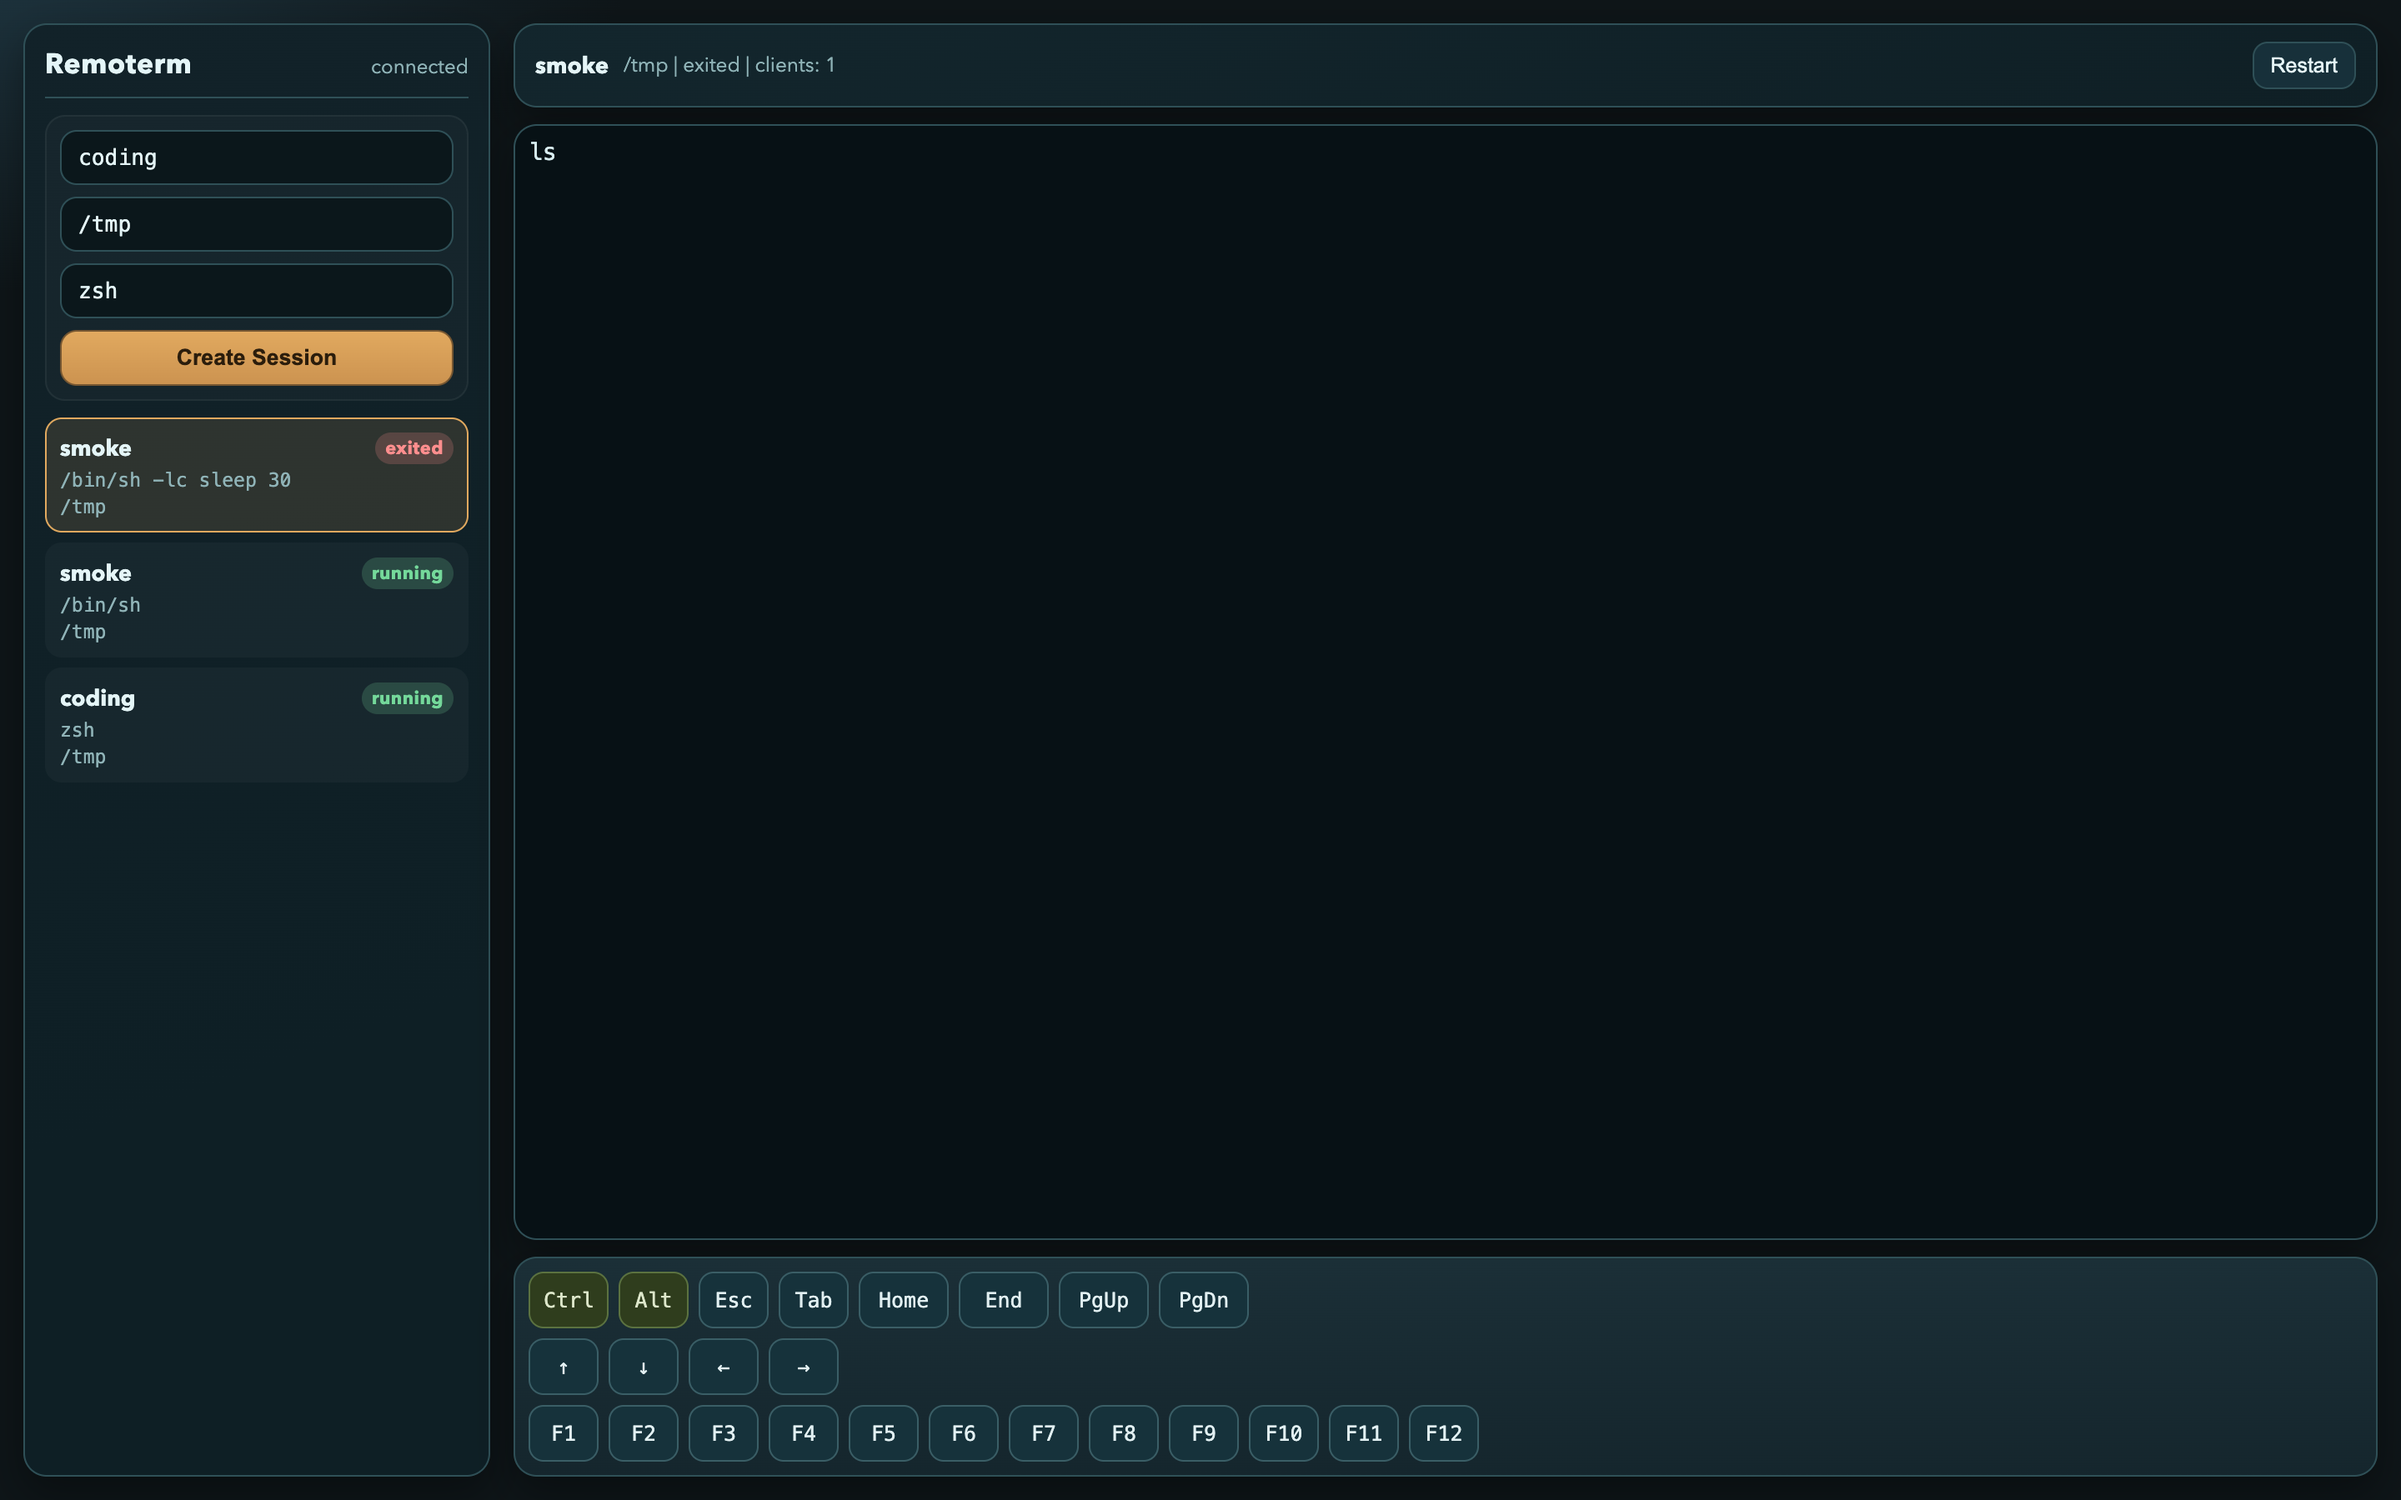
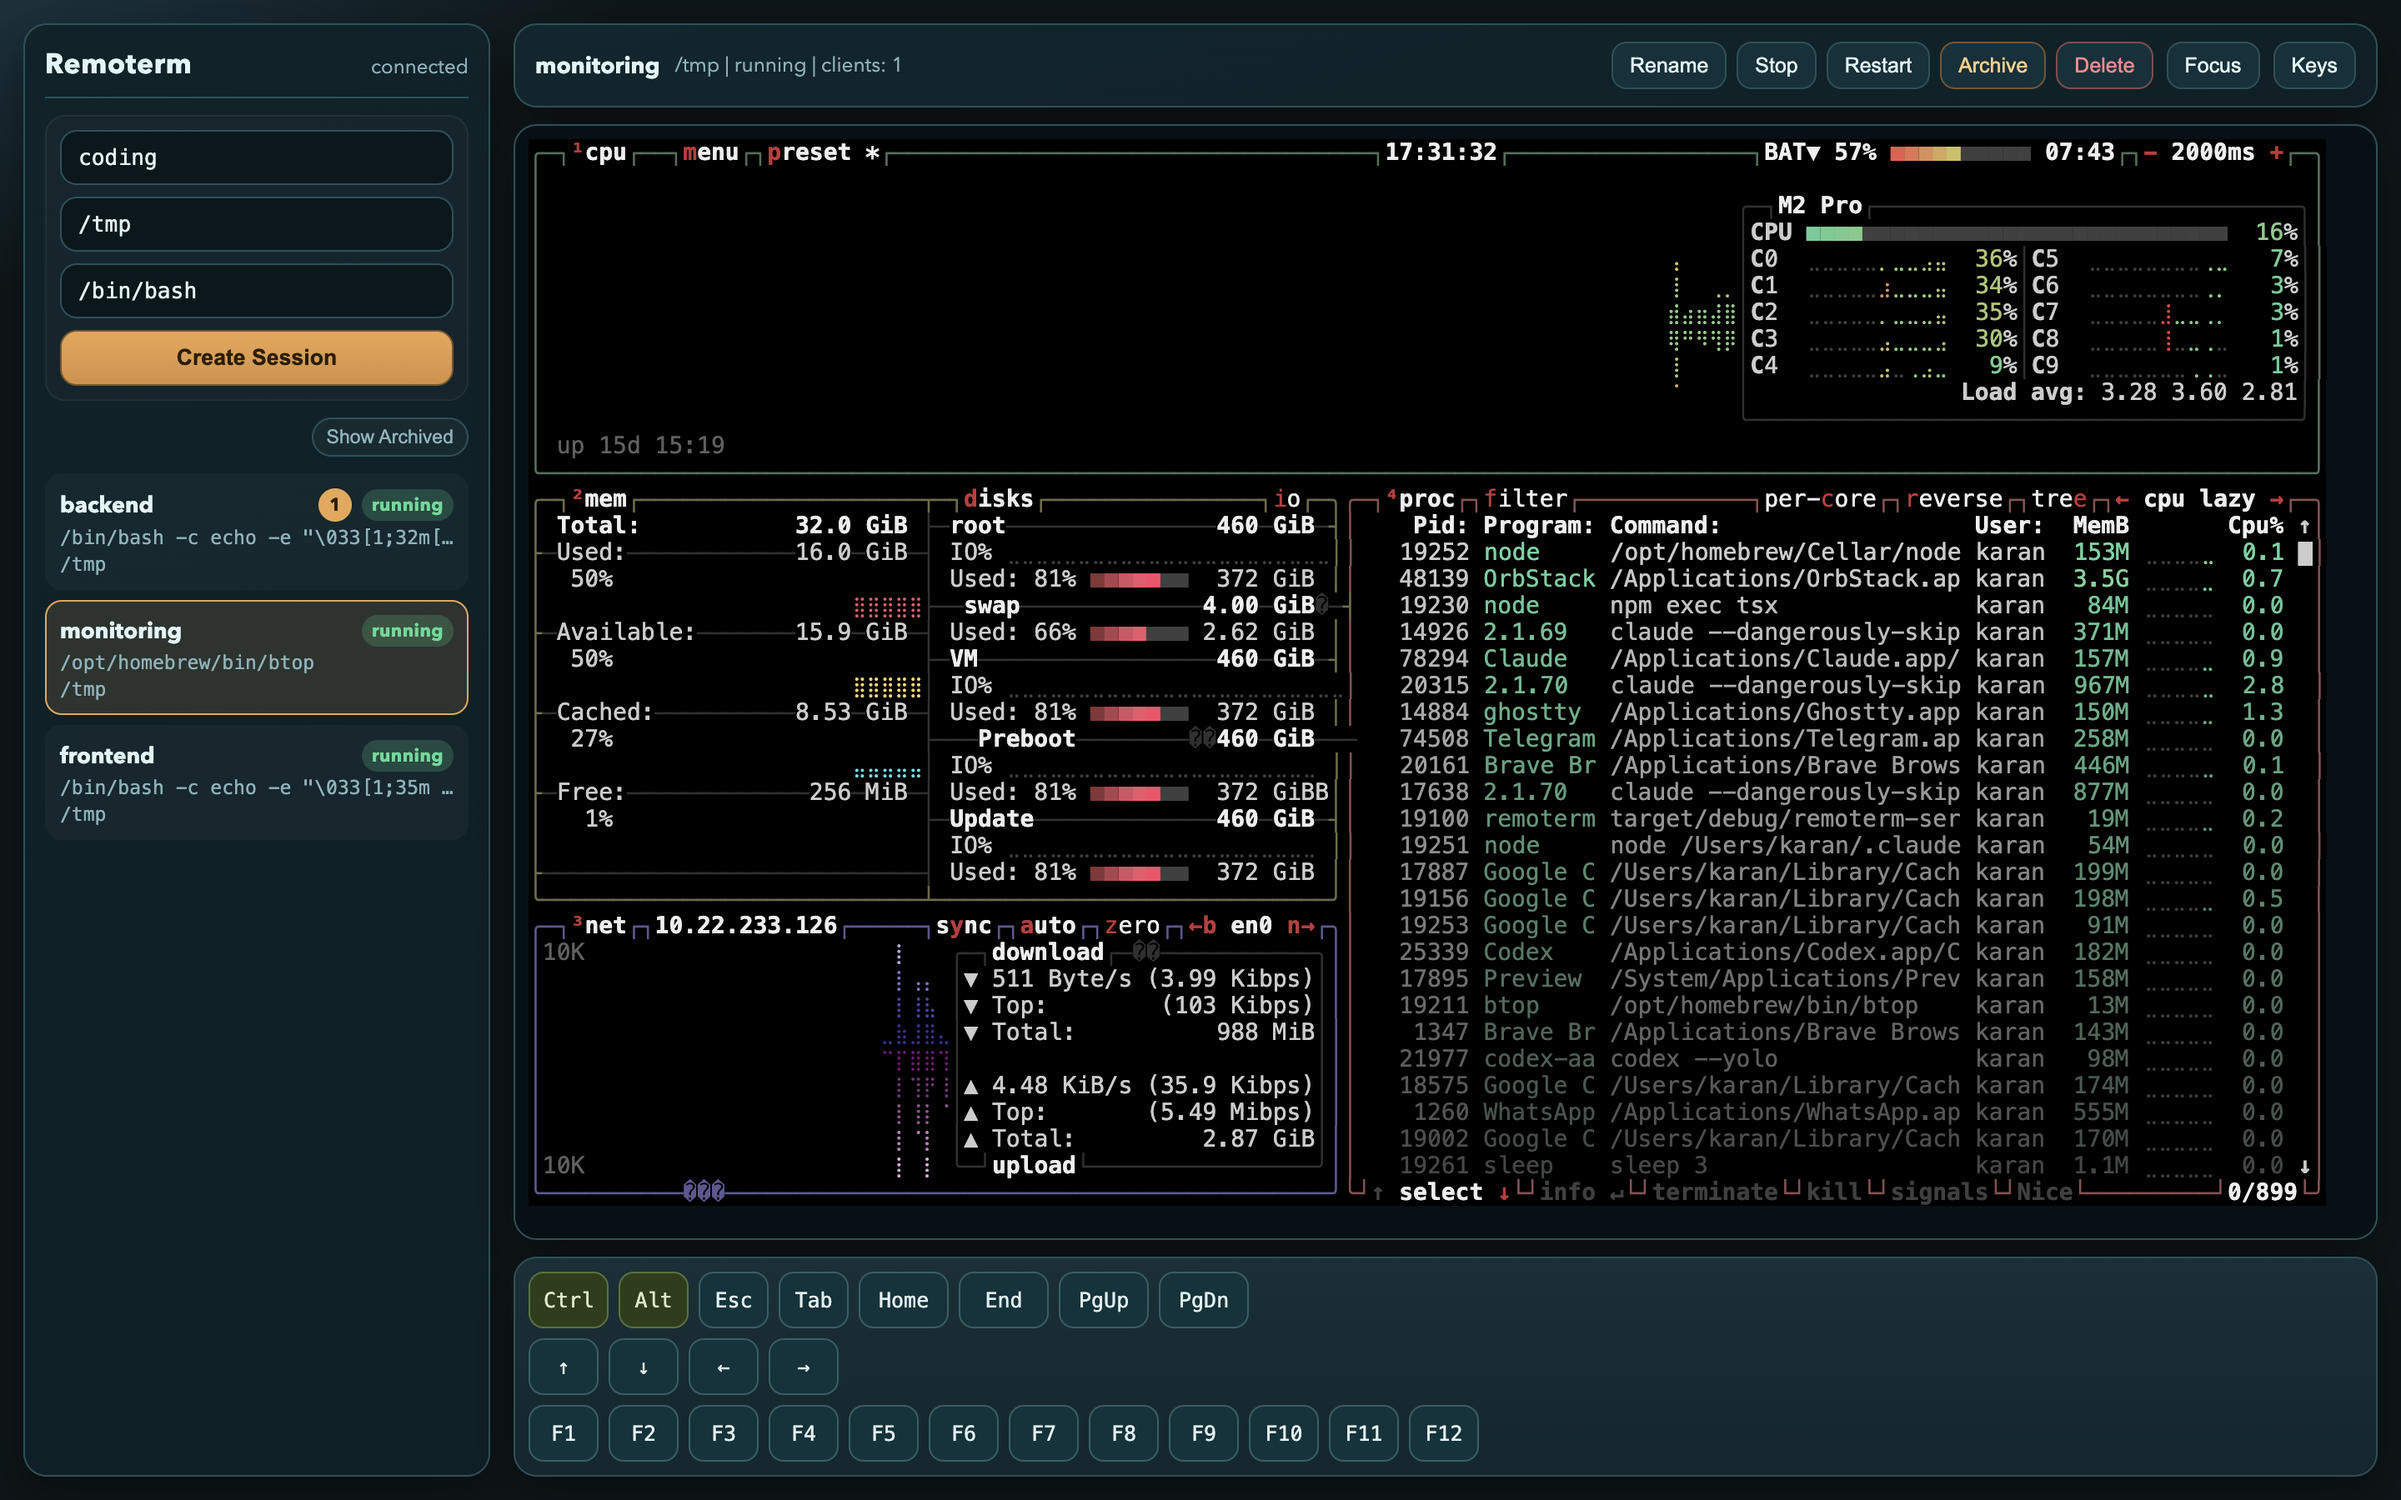
v0.1.0: focus mode, UI overhaul, fresh screenshots
- Focus mode: collapse sidebar + chrome for distraction-free terminal
- Soft keyboard hidden by default on desktop, togglable via Keys button
- rustfmt applied to new code
- Updated README with desktop (btop) and mobile screenshots
- Updated Dockerfile with htop/btop in runtime image
- Updated deployment docs for container TUI support

diff --git a/static/index.html b/static/index.html
@@ -46,6 +46,16 @@
       padding: 14px;
     }
 
+    .app.focus-mode {
+      grid-template-columns: 1fr;
+      gap: 8px;
+      padding: 8px;
+    }
+
+    .app.focus-mode .sidebar {
+      display: none;
+    }
+
     .sidebar {
       border: 1px solid var(--border);
       border-radius: var(--radius);
@@ -250,6 +260,13 @@
       gap: 8px;
     }
 
+    .toolbar button.active {
+      border-color: #755631;
+      background: linear-gradient(180deg, var(--accent), #cc9350);
+      color: #2b1d0c;
+      font-weight: 700;
+    }
+
     .session-actions {
       display: flex;
       gap: 6px;
@@ -317,6 +334,25 @@
       width: 100%;
       height: 100%;
       min-height: 420px;
+    }
+
+    .app.focus-mode .main {
+      gap: 8px;
+    }
+
+    .app.focus-mode .toolbar {
+      padding: 6px 8px;
+      justify-content: flex-end;
+      border-radius: 12px;
+    }
+
+    .app.focus-mode .toolbar .left,
+    .app.focus-mode .session-actions {
+      display: none;
+    }
+
+    .app.focus-mode #terminal-wrap {
+      padding: 3px;
     }
 
     .kbd {
@@ -614,8 +650,9 @@
             <button class="warn" id="archive-btn" type="button">Archive</button>
             <button class="danger" id="delete-btn" type="button">Delete</button>
           </div>
+          <button id="focus-btn" type="button">Focus</button>
           <button class="mobile-only" id="sessions-btn" type="button">Sessions</button>
-          <button class="mobile-only" id="keys-btn" type="button">Keys</button>
+          <button id="keys-btn" type="button">Keys</button>
         </div>
       </div>
 
@@ -665,10 +702,11 @@
       seqBySession: {},
       unreadBySession: {},
       isMobile: window.matchMedia('(max-width: 900px)').matches,
-      keyboardVisible: true,
+      keyboardVisible: false,
       keyboardFns: false,
       sidebarOpen: false,
       showArchived: false,
+      focusMode: false,
       modifiers: {
         ctrl: { mode: 'off', lastTapAt: 0 },
         alt: { mode: 'off', lastTapAt: 0 },
@@ -686,6 +724,7 @@
       title: document.getElementById('session-title'),
       meta: document.getElementById('session-meta'),
       status: document.getElementById('global-status'),
+      focusBtn: document.getElementById('focus-btn'),
       sessionsBtn: document.getElementById('sessions-btn'),
       keysBtn: document.getElementById('keys-btn'),
       sessionActions: document.getElementById('session-actions'),
@@ -777,8 +816,15 @@
       document.body.classList.toggle('sidebar-open', state.isMobile && state.sidebarOpen);
     }
 
+    function syncFocusMode() {
+      document.querySelector('.app').classList.toggle('focus-mode', state.focusMode);
+      el.focusBtn.textContent = state.focusMode ? 'Exit Focus' : 'Focus';
+      el.focusBtn.classList.toggle('active', state.focusMode);
+      el.sessionsBtn.hidden = !state.isMobile;
+    }
+
     function syncKeyboard() {
-      const showKeyboard = !state.isMobile || state.keyboardVisible;
+      const showKeyboard = state.keyboardVisible;
       el.kbd.hidden = !showKeyboard;
       el.row2.hidden = state.isMobile ? state.keyboardFns : false;
       el.row3.hidden = state.isMobile ? !state.keyboardFns : false;
@@ -793,11 +839,12 @@
       if (state.isMobile) {
         state.keyboardVisible = false;
       } else {
-        state.keyboardVisible = true;
+        state.keyboardVisible = false;
         state.sidebarOpen = false;
         state.keyboardFns = false;
       }
       syncSidebar();
+      syncFocusMode();
       syncKeyboard();
       term.options.fontSize = state.isMobile ? 13 : 14;
       requestAnimationFrame(() => {
@@ -1252,6 +1299,22 @@
       });
     });
 
+    el.focusBtn.addEventListener('click', () => {
+      state.focusMode = !state.focusMode;
+      state.sidebarOpen = false;
+      if (state.focusMode) {
+        state.keyboardVisible = false;
+        state.keyboardFns = false;
+      }
+      syncSidebar();
+      syncFocusMode();
+      syncKeyboard();
+      requestAnimationFrame(() => {
+        fitAddon.fit();
+        sendFrame({ type: 'resize', cols: term.cols, rows: term.rows });
+      });
+    });
+
     el.kbdFnToggle.addEventListener('click', () => {
       state.keyboardFns = !state.keyboardFns;
       syncKeyboard();
@@ -1281,6 +1344,13 @@
       if (event.key === 'Escape' && state.sidebarOpen) {
         state.sidebarOpen = false;
         syncSidebar();
+      } else if (event.key === 'Escape' && state.focusMode) {
+        state.focusMode = false;
+        syncFocusMode();
+        requestAnimationFrame(() => {
+          fitAddon.fit();
+          sendFrame({ type: 'resize', cols: term.cols, rows: term.rows });
+        });
       }
     });
 

diff --git a/crates/remoterm-server/src/main.rs b/crates/remoterm-server/src/main.rs
@@ -222,7 +222,10 @@ impl Session {
         let persisted_history = storage.load_output_history(summary.id)?;
         let next_seq = persisted_history.last().map(|event| event.seq).unwrap_or(0);
         summary.attached_clients = 0;
-        if matches!(summary.status, SessionStatus::Running | SessionStatus::Starting) {
+        if matches!(
+            summary.status,
+            SessionStatus::Running | SessionStatus::Starting
+        ) {
             summary.pid = None;
         }
         Ok(Arc::new(Self {
@@ -452,7 +455,10 @@ impl Session {
                 seq: event.seq,
                 data: event.data.clone(),
             },
-            self.history.lock().expect("history lock poisoned").max_bytes,
+            self.history
+                .lock()
+                .expect("history lock poisoned")
+                .max_bytes,
             now,
         ) {
             warn!(
@@ -679,7 +685,10 @@ async fn restart_session(
     };
 
     if session.summary().archived {
-        return Err((StatusCode::BAD_REQUEST, "cannot restart an archived session".into()));
+        return Err((
+            StatusCode::BAD_REQUEST,
+            "cannot restart an archived session".into(),
+        ));
     }
 
     if let Err(err) = kill_session(session.clone()).await {
@@ -728,7 +737,10 @@ async fn archive_session(
             .ok_or((StatusCode::NOT_FOUND, "session not found".into()))?
     };
 
-    if matches!(session.summary().status, SessionStatus::Running | SessionStatus::Starting) {
+    if matches!(
+        session.summary().status,
+        SessionStatus::Running | SessionStatus::Starting
+    ) {
         if let Err(err) = kill_session(session.clone()).await {
             warn!("failed to stop session {} before archive: {}", id, err);
         }

diff --git a/crates/remoterm-server/src/storage.rs b/crates/remoterm-server/src/storage.rs
@@ -157,12 +157,18 @@ impl Storage {
             "DELETE FROM session_events WHERE session_id = ?1",
             params![id.to_string()],
         )?;
-        tx.execute("DELETE FROM sessions WHERE id = ?1", params![id.to_string()])?;
+        tx.execute(
+            "DELETE FROM sessions WHERE id = ?1",
+            params![id.to_string()],
+        )?;
         tx.commit()?;
         Ok(())
     }
 
-    pub fn load_output_history(&self, session_id: Uuid) -> anyhow::Result<Vec<PersistedOutputEvent>> {
+    pub fn load_output_history(
+        &self,
+        session_id: Uuid,
+    ) -> anyhow::Result<Vec<PersistedOutputEvent>> {
         let conn = self.connect()?;
         let mut stmt = conn.prepare(
             "SELECT seq, payload
@@ -249,12 +255,7 @@ impl Storage {
              CREATE UNIQUE INDEX IF NOT EXISTS idx_session_events_session_seq
                  ON session_events(session_id, seq);",
         )?;
-        add_column_if_missing(
-            &conn,
-            "sessions",
-            "archived",
-            "INTEGER NOT NULL DEFAULT 0",
-        )?;
+        add_column_if_missing(&conn, "sessions", "archived", "INTEGER NOT NULL DEFAULT 0")?;
         Ok(())
     }
 

diff --git a/README.md b/README.md
@@ -2,18 +2,26 @@
 
 Persistent, multi-session remote terminal server. A `ttyd` alternative built in Rust for long-running coding agent workflows.
 
-![Remoterm UI](static/screenshot.png)
+![Remoterm UI — desktop with btop](static/screenshot.png)
 
-## Why
+<details>
+<summary>Mobile view</summary>
 
-`ttyd` is great for single shared sessions. Remoterm is designed for a different use case:
+![Remoterm UI — mobile with soft keyboard](static/screenshot-mobile.png)
 
-- **Multiple named sessions** in a sidebar — switch between `backend`, `frontend`, `infra`
+</details>
+
+## Features
+
+- **Multiple named sessions** in a sidebar — switch between `backend`, `monitoring`, `frontend`
 - **Sessions survive disconnects** — close your laptop, reattach from your phone, output picks up where you left off
 - **Sessions survive server restarts** — running sessions are respawned automatically
-- **Mobile keyboard** — Ctrl, Alt, Esc, Tab, arrows, Home/End, PgUp/PgDn, F1–F12
-- **Unread badges** on background sessions
-- **Single binary**, SQLite for state
+- **Focus mode** — collapse sidebar and chrome for a distraction-free terminal (Esc to exit)
+- **Mobile soft keyboard** — Ctrl, Alt, Esc, Tab, arrows, Home/End, PgUp/PgDn, F1–F12 with one-shot and lock modifiers
+- **Unread badges** on background sessions with auto-refreshing session list
+- **Session management** — rename, stop, restart, archive/restore, delete
+- **Single binary** with embedded web UI, SQLite for state
+- **Error toasts** — API errors surface in the UI instead of silently failing
 
 ## Quick start
 
@@ -22,6 +30,12 @@ cargo run -p remoterm-server -- --listen 127.0.0.1:8787
 ```
 
 Then open http://127.0.0.1:8787/
+
+Or with Docker:
+
+```bash
+docker compose up -d
+```
 
 ## API
 
@@ -67,9 +81,8 @@ just dev
 # Run all tests (unit + restart recovery integration)
 just test
 
-# Or use make
-make smoke           # interactive smoke test
-make test-restart    # restart recovery integration test
+# Interactive smoke test
+just smoke
 ```
 
 ## Security

diff --git a/docs/deployment.md b/docs/deployment.md
@@ -106,6 +106,8 @@ Then use container paths for sessions:
 - `cwd`: `/workspace/myproject`
 - `shell`: `/bin/bash`
 
+The default runtime image includes common shell tooling plus `htop` and `btop`, so those TUIs work in container-backed sessions without extending the image first.
+
 ### Extending the image
 
 ```dockerfile
